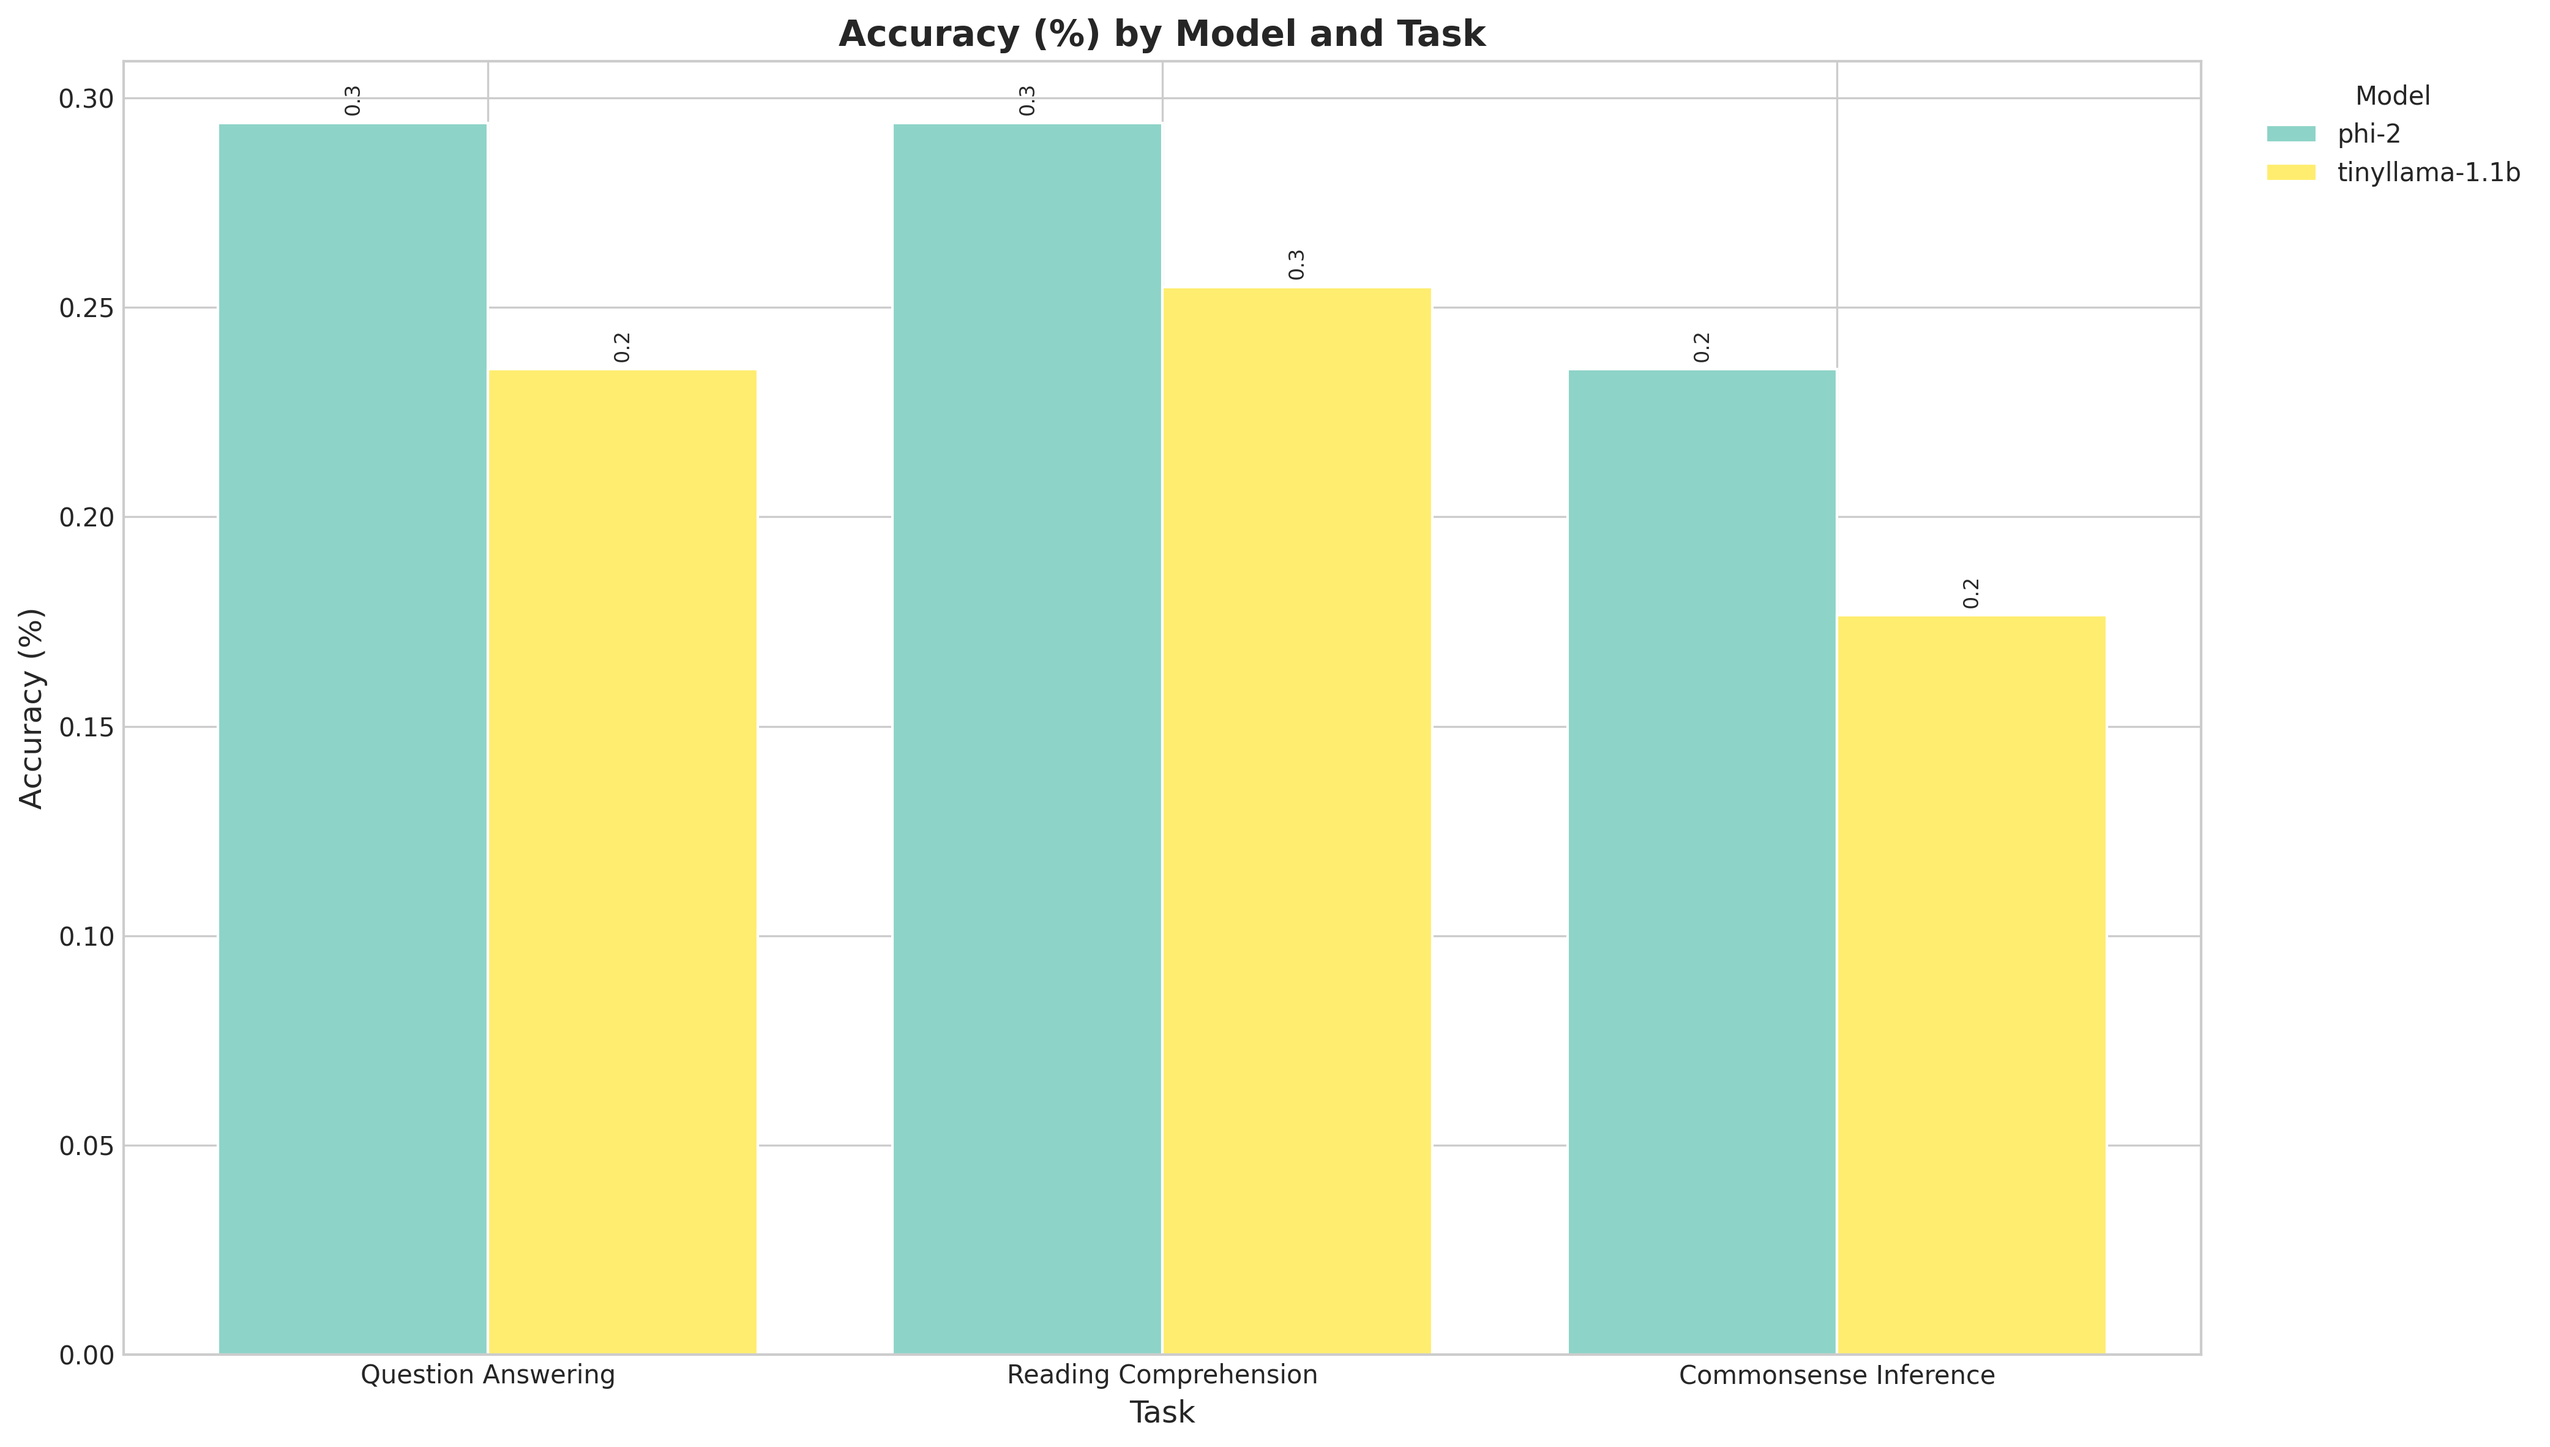
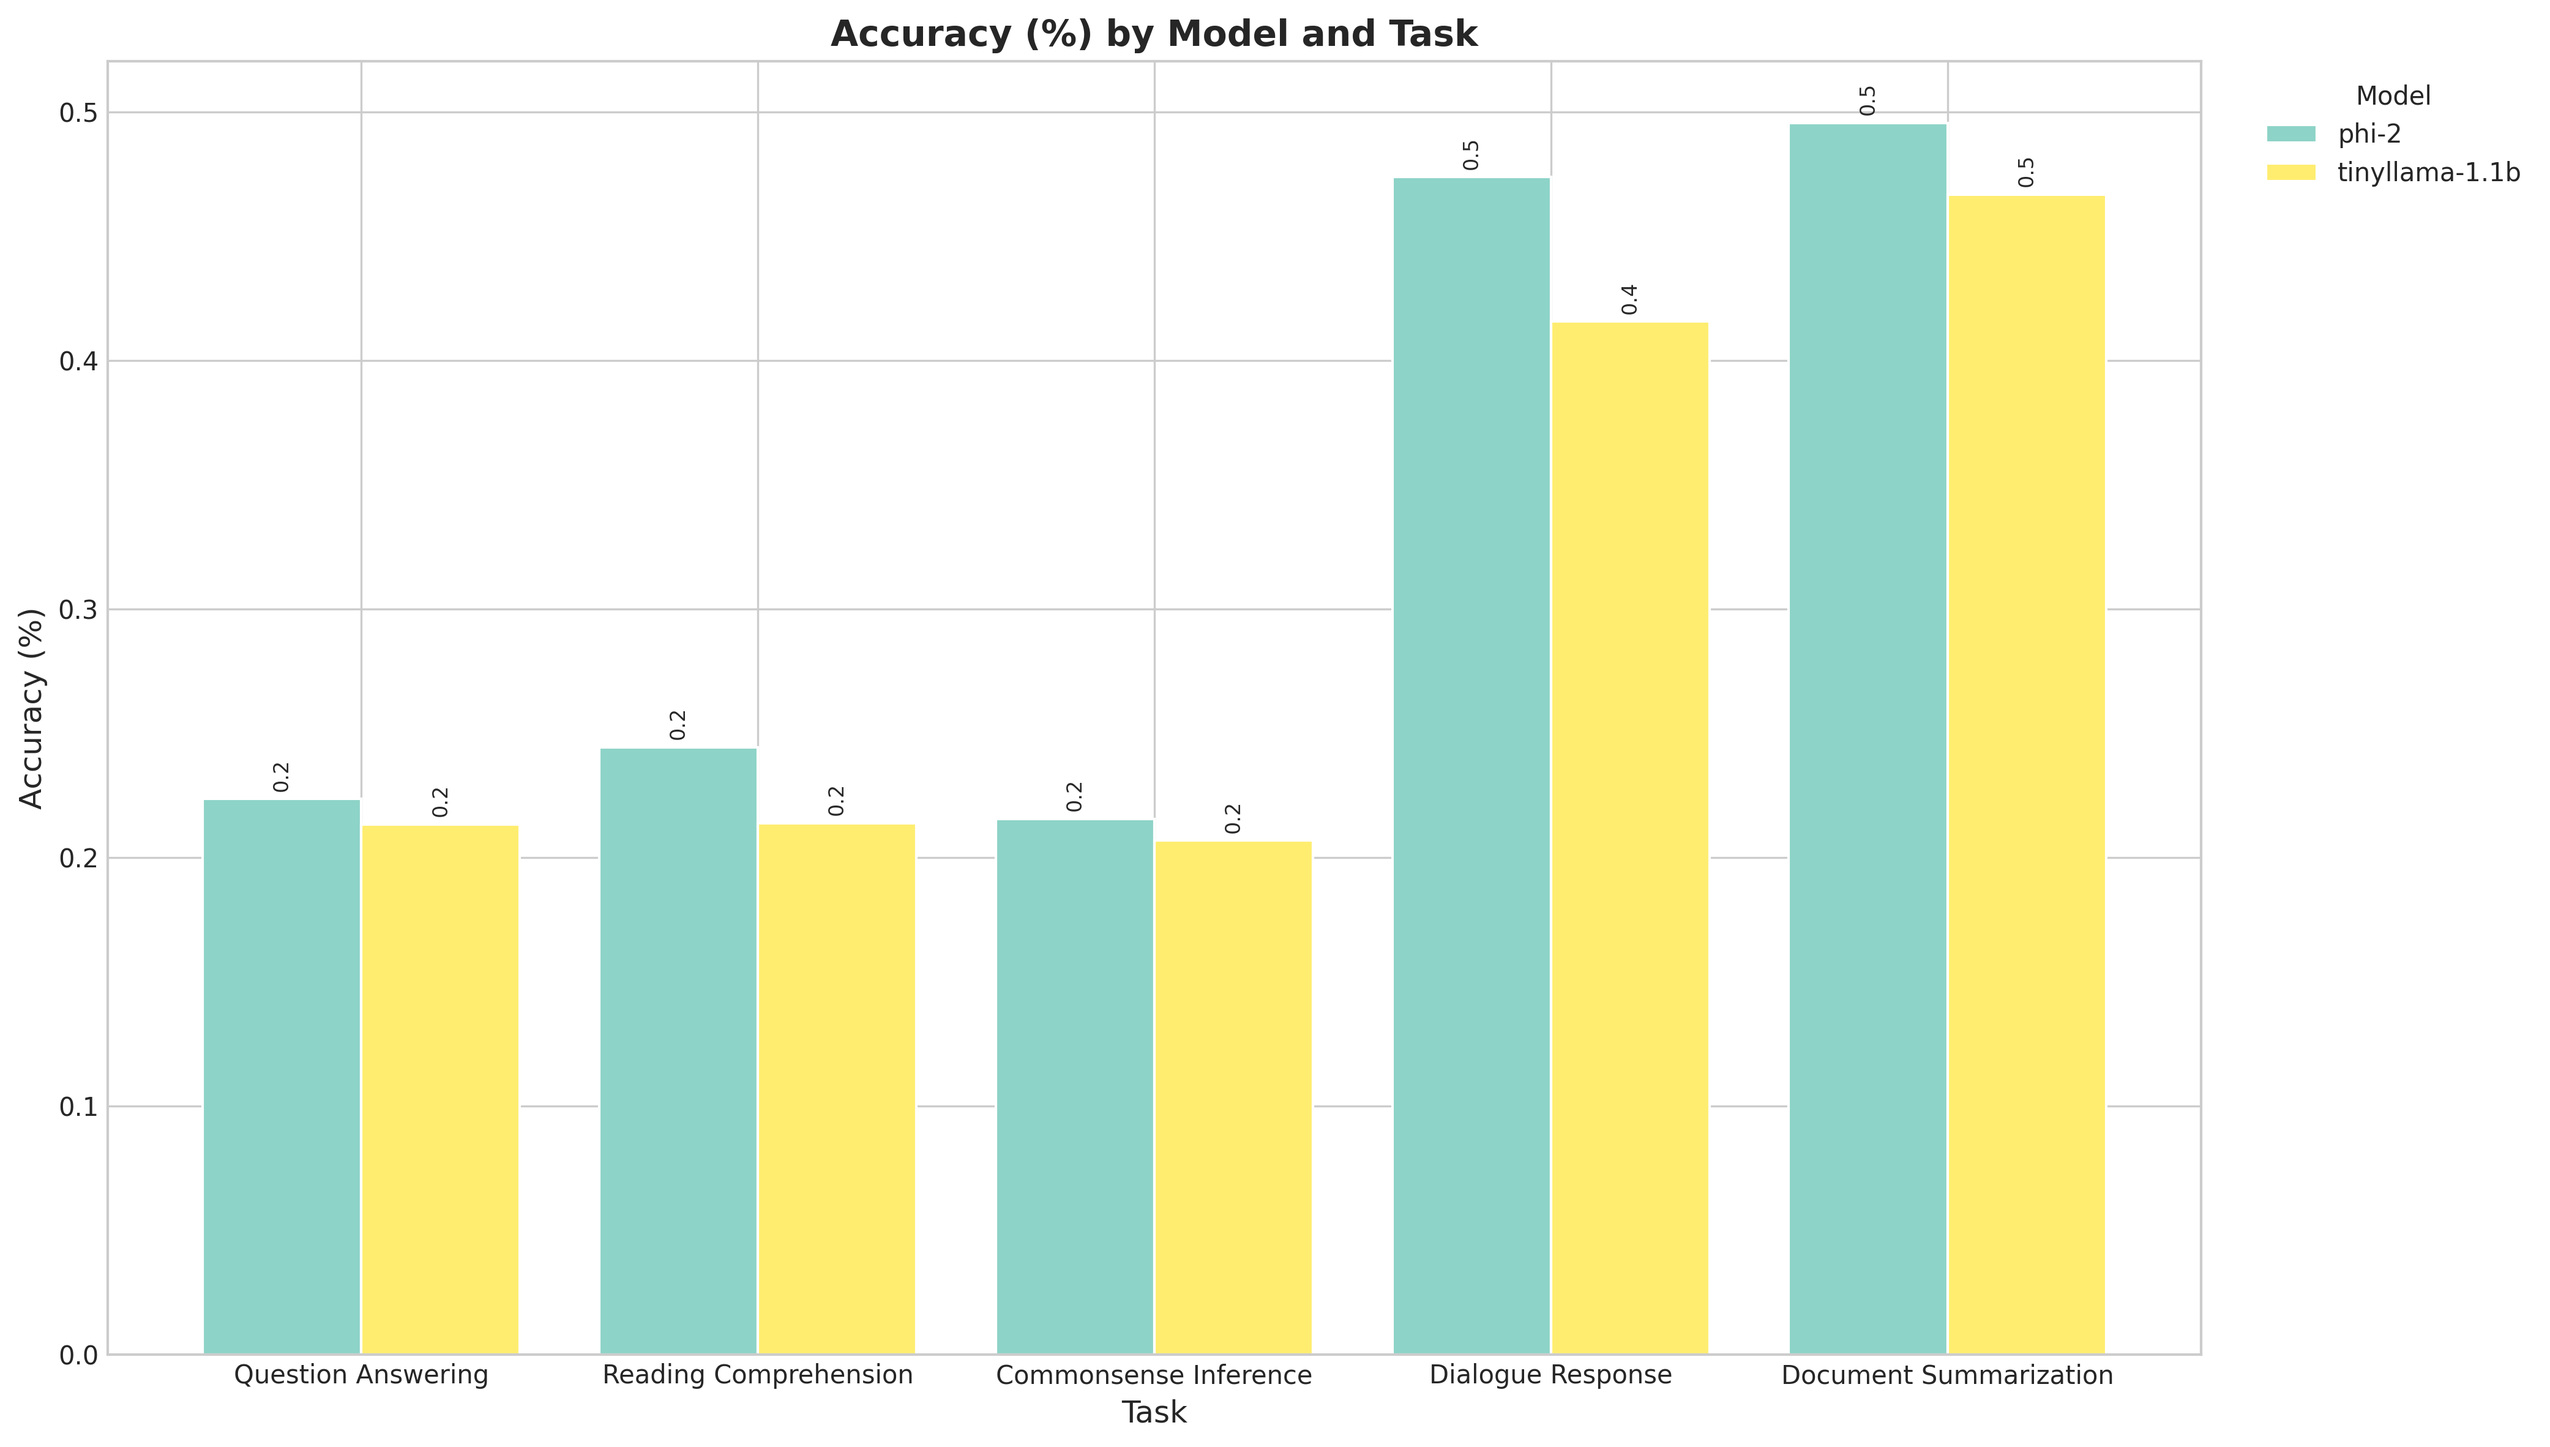
gpu ling run results

diff --git a/outputs/results/figures/results_summary.md b/outputs/results/figures/results_summary.md
@@ -2,21 +2,21 @@
 
 ## Accuracy (%)
 
-| Model | Question Answering | Reading Comprehension | Commonsense Inference | Avg |
-|---|---|---|---|---|
-| phi-2 | 0.3 | 0.3 | 0.2 | **0.3** |
-| tinyllama-1.1b | 0.2 | 0.3 | 0.2 | **0.2** |
+| Model | Question Answering | Reading Comprehension | Commonsense Inference | Dialogue Response | Document Summarization | Avg |
+|---|---|---|---|---|---|---|
+| phi-2 | 0.2 | 0.2 | 0.2 | 0.5 | 0.5 | **0.3** |
+| tinyllama-1.1b | 0.2 | 0.2 | 0.2 | 0.4 | 0.5 | **0.3** |
 
 ## Coverage Rate (%)
 
-| Model | Question Answering | Reading Comprehension | Commonsense Inference | Avg |
-|---|---|---|---|---|
-| phi-2 | 1.0 | 0.9 | 1.0 | **1.0** |
-| tinyllama-1.1b | 1.0 | 0.9 | 0.9 | **0.9** |
+| Model | Question Answering | Reading Comprehension | Commonsense Inference | Dialogue Response | Document Summarization | Avg |
+|---|---|---|---|---|---|---|
+| phi-2 | 1.0 | 0.9 | 0.9 | 0.9 | 0.9 | **0.9** |
+| tinyllama-1.1b | 0.9 | 1.0 | 1.0 | 0.9 | 0.9 | **0.9** |
 
 ## Average Set Size
 
-| Model | Question Answering | Reading Comprehension | Commonsense Inference | Avg |
-|---|---|---|---|---|
-| phi-2 | 5.77 | 5.35 | 5.79 | **5.64** |
-| tinyllama-1.1b | 5.49 | 5.30 | 5.22 | **5.34** |
+| Model | Question Answering | Reading Comprehension | Commonsense Inference | Dialogue Response | Document Summarization | Avg |
+|---|---|---|---|---|---|---|
+| phi-2 | 5.61 | 5.55 | 5.55 | 5.28 | 4.49 | **5.30** |
+| tinyllama-1.1b | 5.60 | 5.58 | 5.64 | 5.36 | 4.73 | **5.38** |

diff --git a/outputs/results/figures/results_summary_aps.md b/outputs/results/figures/results_summary_aps.md
@@ -2,21 +2,21 @@
 
 ## Accuracy (%)
 
-| Model | Question Answering | Reading Comprehension | Commonsense Inference | Avg |
-|---|---|---|---|---|
-| phi-2 | 0.3 | 0.3 | 0.2 | **0.3** |
-| tinyllama-1.1b | 0.2 | 0.3 | 0.2 | **0.2** |
+| Model | Question Answering | Reading Comprehension | Commonsense Inference | Dialogue Response | Document Summarization | Avg |
+|---|---|---|---|---|---|---|
+| phi-2 | 0.2 | 0.2 | 0.2 | 0.5 | 0.5 | **0.3** |
+| tinyllama-1.1b | 0.2 | 0.2 | 0.2 | 0.4 | 0.5 | **0.3** |
 
 ## Coverage Rate (%)
 
-| Model | Question Answering | Reading Comprehension | Commonsense Inference | Avg |
-|---|---|---|---|---|
-| phi-2 | 1.0 | 1.0 | 1.0 | **1.0** |
-| tinyllama-1.1b | 1.0 | 1.0 | 1.0 | **1.0** |
+| Model | Question Answering | Reading Comprehension | Commonsense Inference | Dialogue Response | Document Summarization | Avg |
+|---|---|---|---|---|---|---|
+| phi-2 | 1.0 | 1.0 | 1.0 | 1.0 | 1.0 | **1.0** |
+| tinyllama-1.1b | 1.0 | 1.0 | 1.0 | 1.0 | 1.0 | **1.0** |
 
 ## Average Set Size
 
-| Model | Question Answering | Reading Comprehension | Commonsense Inference | Avg |
-|---|---|---|---|---|
-| phi-2 | 5.96 | 5.86 | 6.00 | **5.94** |
-| tinyllama-1.1b | 5.69 | 5.88 | 5.65 | **5.74** |
+| Model | Question Answering | Reading Comprehension | Commonsense Inference | Dialogue Response | Document Summarization | Avg |
+|---|---|---|---|---|---|---|
+| phi-2 | 5.98 | 5.95 | 5.97 | 5.73 | 5.05 | **5.74** |
+| tinyllama-1.1b | 5.97 | 5.96 | 6.00 | 5.69 | 5.19 | **5.76** |

diff --git a/outputs/results/figures/results_summary_lac.md b/outputs/results/figures/results_summary_lac.md
@@ -2,21 +2,21 @@
 
 ## Accuracy (%)
 
-| Model | Question Answering | Reading Comprehension | Commonsense Inference | Avg |
-|---|---|---|---|---|
-| phi-2 | 0.3 | 0.3 | 0.2 | **0.3** |
-| tinyllama-1.1b | 0.2 | 0.3 | 0.2 | **0.2** |
+| Model | Question Answering | Reading Comprehension | Commonsense Inference | Dialogue Response | Document Summarization | Avg |
+|---|---|---|---|---|---|---|
+| phi-2 | 0.2 | 0.2 | 0.2 | 0.5 | 0.5 | **0.3** |
+| tinyllama-1.1b | 0.2 | 0.2 | 0.2 | 0.4 | 0.5 | **0.3** |
 
 ## Coverage Rate (%)
 
-| Model | Question Answering | Reading Comprehension | Commonsense Inference | Avg |
-|---|---|---|---|---|
-| phi-2 | 0.9 | 0.9 | 0.9 | **0.9** |
-| tinyllama-1.1b | 0.9 | 0.9 | 0.9 | **0.9** |
+| Model | Question Answering | Reading Comprehension | Commonsense Inference | Dialogue Response | Document Summarization | Avg |
+|---|---|---|---|---|---|---|
+| phi-2 | 0.9 | 0.9 | 0.9 | 0.9 | 0.9 | **0.9** |
+| tinyllama-1.1b | 0.9 | 0.9 | 0.9 | 0.9 | 0.9 | **0.9** |
 
 ## Average Set Size
 
-| Model | Question Answering | Reading Comprehension | Commonsense Inference | Avg |
-|---|---|---|---|---|
-| phi-2 | 5.59 | 4.84 | 5.59 | **5.34** |
-| tinyllama-1.1b | 5.29 | 4.73 | 4.78 | **4.93** |
+| Model | Question Answering | Reading Comprehension | Commonsense Inference | Dialogue Response | Document Summarization | Avg |
+|---|---|---|---|---|---|---|
+| phi-2 | 5.24 | 5.16 | 5.12 | 4.83 | 3.92 | **4.85** |
+| tinyllama-1.1b | 5.24 | 5.20 | 5.29 | 5.03 | 4.26 | **5.00** |
